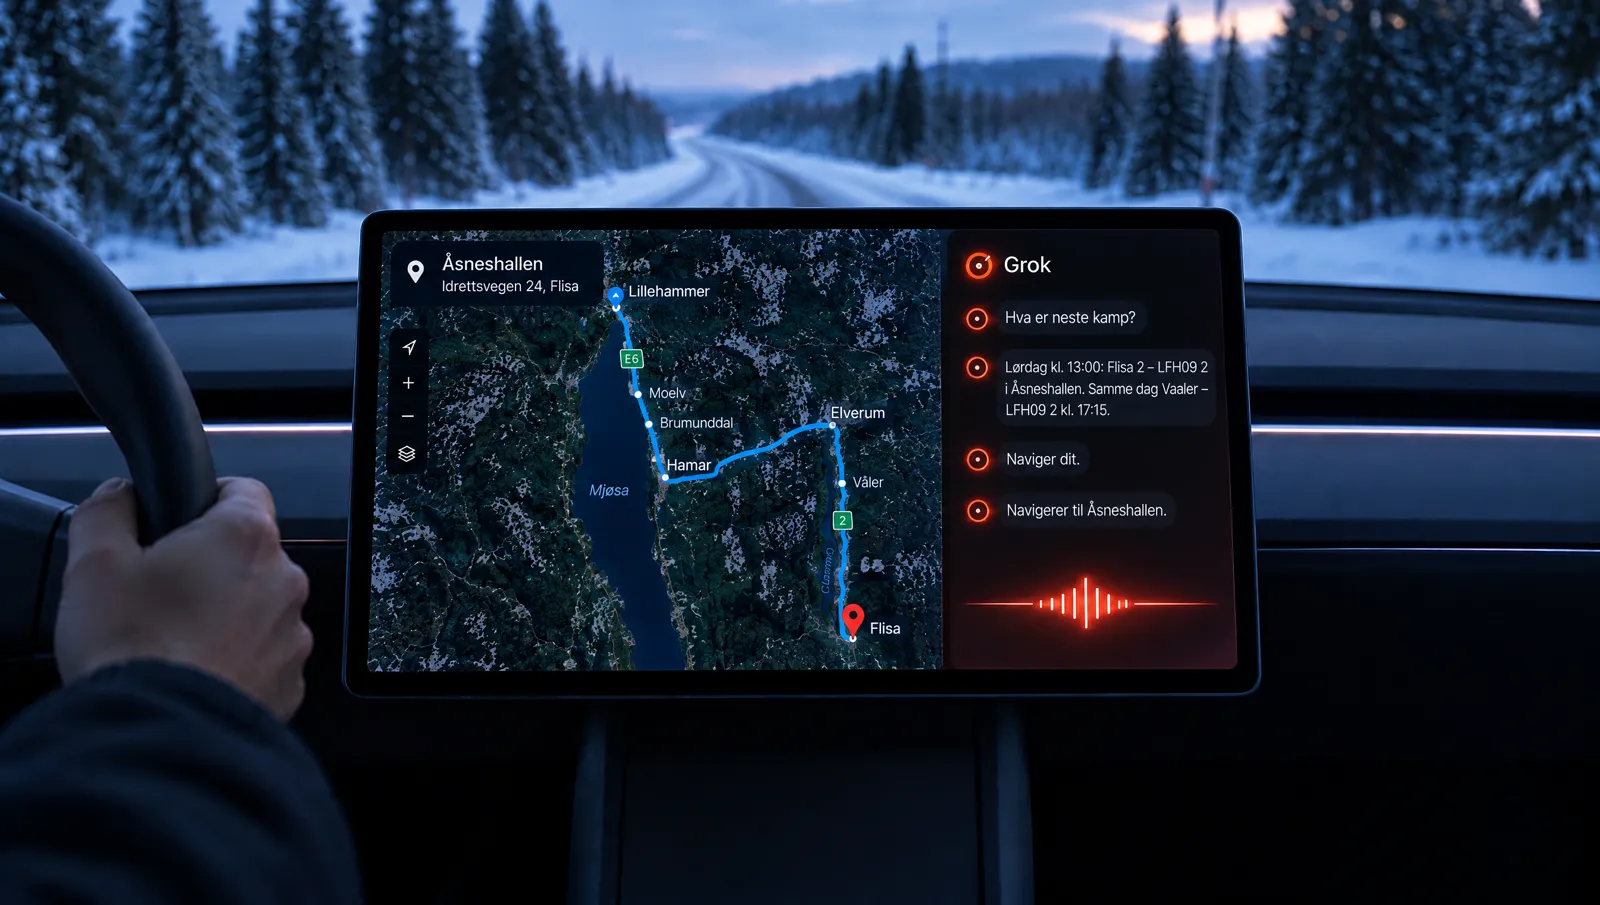
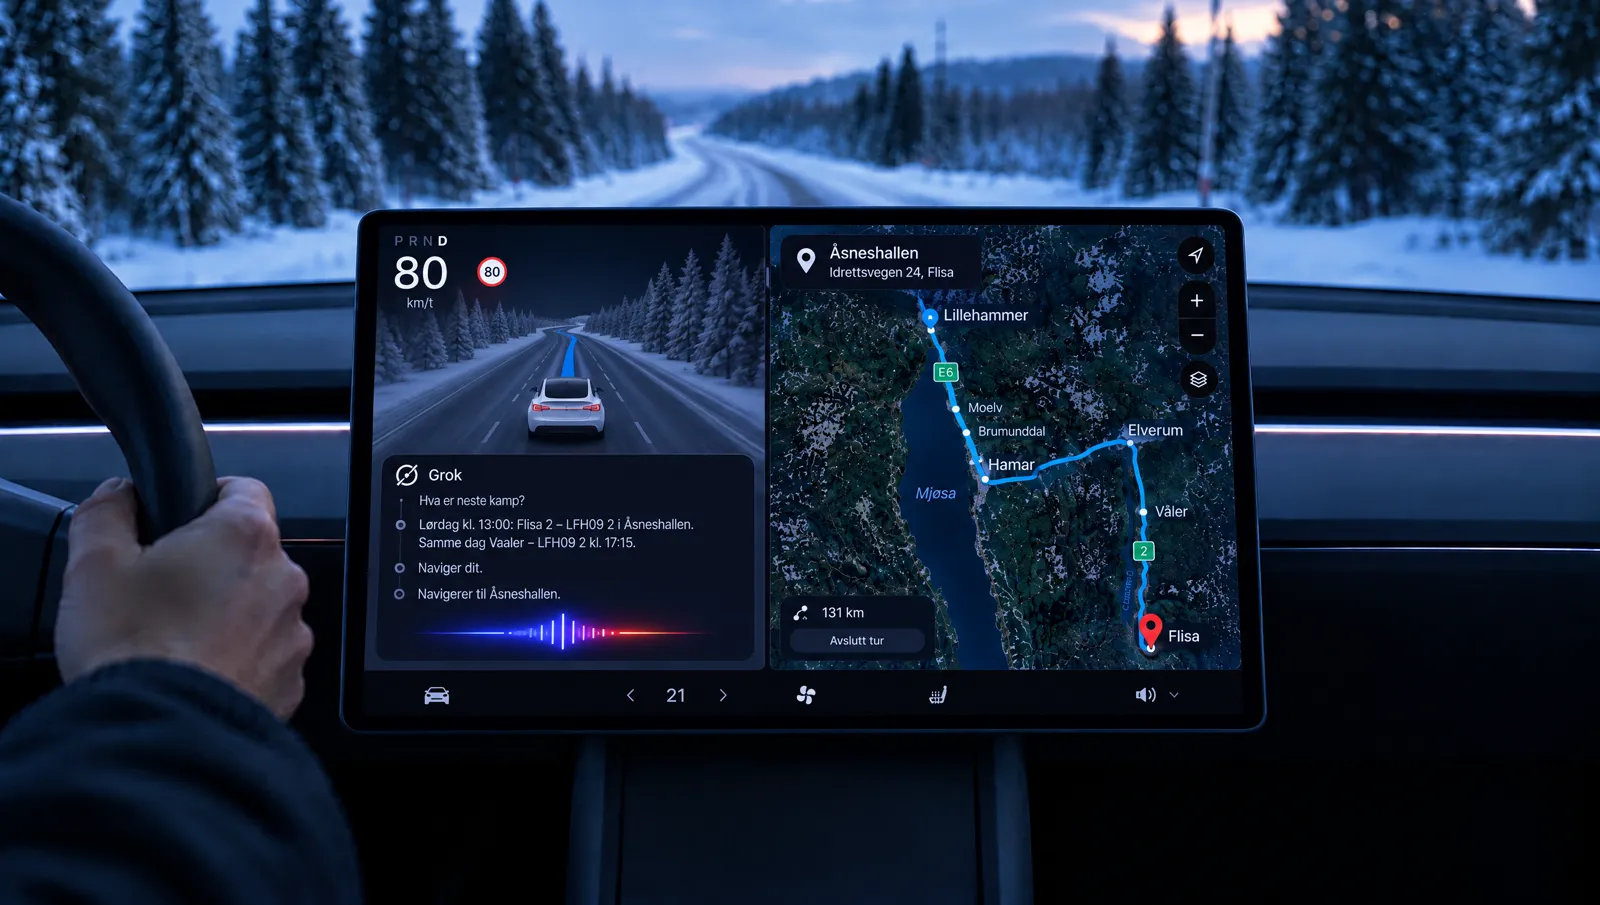
fix: Tesla-bildet med ekte Grok-oppsett — kjørevisning og Grok-kort til venstre, kart til høyre
Claude-Session: https://claude.ai/code/session_01XfQKzvQjTJFnDciHvXKS2K

diff --git a/knatt-i-bilen/index.html b/knatt-i-bilen/index.html
@@ -241,7 +241,7 @@ pre .k { color: var(--lime); } pre .s { color: var(--glod-l); } pre .c { opacity
   <div class="container">
     <figure>
       <div class="shot-frame" data-reveal>
-        <img src="tesla-grok.webp" width="1600" height="905" alt="Illustrasjon: den liggende skjermen i en Tesla Model Y en vinterkveld. Kartet viser ruta fra Lillehammer langs E6 på østsiden av Mjøsa til Hamar, videre til Elverum og Rv 2 sørover til Flisa, og Grok-panelet viser samtalen: «Hva er neste kamp?» — «Lørdag kl. 13:00: Flisa 2 – LFH09 2 i Åsneshallen. Samme dag Vaaler – LFH09 2 kl. 17:15.» — «Naviger dit.» — «Navigerer til Åsneshallen.»">
+        <img src="tesla-grok.webp" width="1600" height="905" alt="Illustrasjon: den liggende skjermen i en Tesla Model Y en vinterkveld. Til venstre kjørevisningen med Grok-kortet, til høyre kartet. Kartet viser ruta fra Lillehammer langs E6 på østsiden av Mjøsa til Hamar, videre til Elverum og Rv 2 sørover til Flisa, og Grok-kortet viser samtalen: «Hva er neste kamp?» — «Lørdag kl. 13:00: Flisa 2 – LFH09 2 i Åsneshallen. Samme dag Vaaler – LFH09 2 kl. 17:15.» — «Naviger dit.» — «Navigerer til Åsneshallen.»">
       </div>
       <figcaption>Illustrasjon laget med KI · kampene er ekte, fra Knatt-lite</figcaption>
     </figure>
